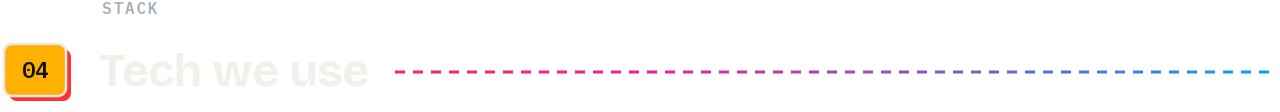
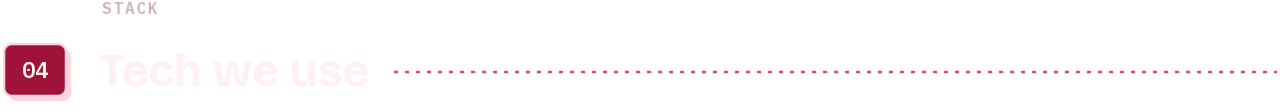
Profile README: cranberry and pastel Criza Labs identity

Changed region(s): [[0.3125, 0.6161, 1.0, 0.6696], [0.0, 0.4018, 0.0625, 0.9107], [0.0625, 0.0, 0.125, 0.1339]]

diff --git a/profile/README.md b/profile/README.md
@@ -8,10 +8,10 @@
 <br />
 <br />
 
-<a href="https://criza.dev"><img src="https://img.shields.io/badge/Website-criza.dev-fd352a?style=for-the-badge&labelColor=111318" alt="criza.dev" /></a>
-<a href="https://voise.criza.dev"><img src="https://img.shields.io/badge/CrizaVoise-Free%20billing%20app-f51e91?style=for-the-badge&labelColor=111318" alt="CrizaVoise" /></a>
-<a href="https://criza.web.id"><img src="https://img.shields.io/badge/CrizaTools-Free%20browser%20tools-ffb000?style=for-the-badge&labelColor=111318" alt="CrizaTools" /></a>
-<a href="mailto:info@criza.dev"><img src="https://img.shields.io/badge/Email-info%40criza.dev-019ffb?style=for-the-badge&labelColor=111318" alt="Email Criza Labs" /></a>
+<a href="https://criza.dev"><img src="https://img.shields.io/badge/Website-criza.dev-9f1239?style=for-the-badge&labelColor=2b0b14" alt="criza.dev" /></a>
+<a href="https://voise.criza.dev"><img src="https://img.shields.io/badge/CrizaVoise-Free%20billing%20app-ffd6dd?style=for-the-badge&labelColor=2b0b14" alt="CrizaVoise" /></a>
+<a href="https://criza.web.id"><img src="https://img.shields.io/badge/CrizaTools-Free%20browser%20tools-ffe6a6?style=for-the-badge&labelColor=2b0b14" alt="CrizaTools" /></a>
+<a href="mailto:info@criza.dev"><img src="https://img.shields.io/badge/Email-info%40criza.dev-e9e0ff?style=for-the-badge&labelColor=2b0b14" alt="Email Criza Labs" /></a>
 
 <br />
 <br />
@@ -121,7 +121,7 @@
       <h3>AbrarAli S.</h3>
       <sub>CO-FOUNDER &middot; FULL-STACK &amp; AI ENGINEER</sub>
       <br /><br />
-      <a href="https://github.com/AbraraliS"><img src="https://img.shields.io/badge/GitHub-AbraraliS-111318?style=flat-square&logo=github" alt="AbraraliS on GitHub" /></a>
+      <a href="https://github.com/AbraraliS"><img src="https://img.shields.io/badge/GitHub-AbraraliS-9f1239?style=flat-square&logo=github" alt="AbraraliS on GitHub" /></a>
       <br /><br />
     </td>
     <td align="center" width="300">
@@ -130,7 +130,7 @@
       <h3>AkbarAli N.</h3>
       <sub>CO-FOUNDER &middot; BACKEND ENGINEER</sub>
       <br /><br />
-      <a href="https://github.com/Akbarali-Nagalpara"><img src="https://img.shields.io/badge/GitHub-Akbarali--Nagalpara-111318?style=flat-square&logo=github" alt="Akbarali-Nagalpara on GitHub" /></a>
+      <a href="https://github.com/Akbarali-Nagalpara"><img src="https://img.shields.io/badge/GitHub-Akbarali--Nagalpara-9f1239?style=flat-square&logo=github" alt="Akbarali-Nagalpara on GitHub" /></a>
       <br /><br />
     </td>
   </tr>
